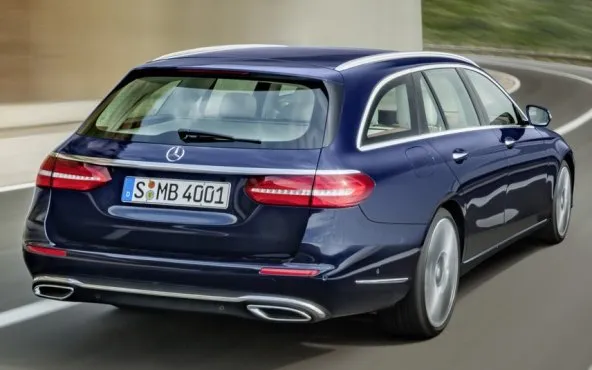
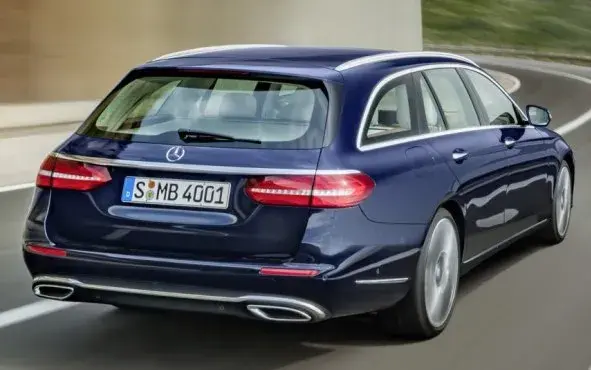
246

diff --git a/pic/ja_mb_img_e.html b/pic/ja_mb_img_e.html
@@ -886,10 +886,10 @@
 					<section>
 						<h4 class="displayNone">T モデル</h4>
 						<a href="full/e/s213_f.jpg"><img loading="lazy" src="style/e/s213_f.webp" alt="メルセデス,S213,Eクラス,フロント" width="614" height="370"></a>
-						<a href="full/e/s213_r.jpg"><img loading="lazy" src="style/e/s213_r.webp" alt="メルセデス,S213,Eクラス,リヤ" width="592" height="370"></a>
+						<a href="full/e/s213_r.jpg"><img loading="lazy" src="style/e/s213_r.webp" alt="メルセデス,S213,Eクラス,リヤ" width="591" height="370"></a>
 						<h5>アヴァンギャルド</h5>
 						<a href="full/e/s213_f_ava.jpg"><img loading="lazy" src="style/e/s213_f_ava.webp" alt="メルセデス,S213,Eクラス,アヴァンギャルド,フロント" width="671" height="368"></a>
-						<a href="full/e/s213_r_ava.jpg"><img loading="lazy" src="style/e/s213_r_ava.webp" alt="メルセデス,S213,Eクラス,アヴァンギャルド,リヤ" width="536" height="368"></a>
+						<a href="full/e/s213_r_ava.jpg"><img loading="lazy" src="style/e/s213_r_ava.webp" alt="メルセデス,S213,Eクラス,アヴァンギャルド,リヤ" width="534" height="368"></a>
 						<h5>Interior and Luggage room</h5>
 						<a href="full/e/s213_i.jpg"><img loading="lazy" src="style/e/s213_i.webp" alt="メルセデス,S213,Eクラス,内装" width="400" height="365"></a>
 						<a href="full/e/s213_i2.jpg"><img loading="lazy" src="style/e/s213_i2.webp" alt="メルセデス,S213,Eクラス,内装" width="400" height="365"></a>

diff --git a/pic/mb_img_e.html b/pic/mb_img_e.html
@@ -886,10 +886,10 @@
 					<section>
 						<h4 class="displayNone">T-Modell</h4>
 						<a href="full/e/s213_f.jpg"><img loading="lazy" src="style/e/s213_f.webp" alt="Mercedes,S213,E-klasse,Frontansicht" width="614" height="370"></a>
-						<a href="full/e/s213_r.jpg"><img loading="lazy" src="style/e/s213_r.webp" alt="Mercedes,S213,E-klasse,Rückansicht" width="592" height="370"></a>
+						<a href="full/e/s213_r.jpg"><img loading="lazy" src="style/e/s213_r.webp" alt="Mercedes,S213,E-klasse,Rückansicht" width="591" height="370"></a>
 						<h5>Avantgarde</h5>
 						<a href="full/e/s213_f_ava.jpg"><img loading="lazy" src="style/e/s213_f_ava.webp" alt="Mercedes,S213,E-klasse,Avantgarde,Frontansicht" width="671" height="368"></a>
-						<a href="full/e/s213_r_ava.jpg"><img loading="lazy" src="style/e/s213_r_ava.webp" alt="Mercedes,S213,E-klasse,Avantgarde,Rückansicht" width="536" height="368"></a>
+						<a href="full/e/s213_r_ava.jpg"><img loading="lazy" src="style/e/s213_r_ava.webp" alt="Mercedes,S213,E-klasse,Avantgarde,Rückansicht" width="534" height="368"></a>
 						<h5>Innen- und Gepäckraum</h5>
 						<a href="full/e/s213_i.jpg"><img loading="lazy" src="style/e/s213_i.webp" alt="Mercedes,S213,E,Innenansicht" width="400" height="365"></a>
 						<a href="full/e/s213_i2.jpg"><img loading="lazy" src="style/e/s213_i2.webp" alt="Mercedes,S213,E,Innenansicht" width="400" height="365"></a>

diff --git a/pic/en_mb_img_e.html b/pic/en_mb_img_e.html
@@ -886,10 +886,10 @@
 					<section>
 						<h4 class="displayNone">T-Model</h4>
 						<a href="full/e/s213_f.jpg"><img loading="lazy" src="style/e/s213_f.webp" alt="Mercedes,S213,E-class,Front view" width="614" height="370"></a>
-						<a href="full/e/s213_r.jpg"><img loading="lazy" src="style/e/s213_r.webp" alt="Mercedes,S213,E-class,Rear view" width="592" height="370"></a>
+						<a href="full/e/s213_r.jpg"><img loading="lazy" src="style/e/s213_r.webp" alt="Mercedes,S213,E-class,Rear view" width="591" height="370"></a>
 						<h5>Avantgarde</h5>
 						<a href="full/e/s213_f_ava.jpg"><img loading="lazy" src="style/e/s213_f_ava.webp" alt="Mercedes,S213,E-class,Avantgarde,Front view" width="671" height="368"></a>
-						<a href="full/e/s213_r_ava.jpg"><img loading="lazy" src="style/e/s213_r_ava.webp" alt="Mercedes,S213,E-class,Avantgarde,Rear view" width="536" height="368"></a>
+						<a href="full/e/s213_r_ava.jpg"><img loading="lazy" src="style/e/s213_r_ava.webp" alt="Mercedes,S213,E-class,Avantgarde,Rear view" width="534" height="368"></a>
 						<h5>Interior and Luggage room</h5>
 						<a href="full/e/s213_i.jpg"><img loading="lazy" src="style/e/s213_i.webp" alt="Mercedes,S213,E,Interior" width="400" height="365"></a>
 						<a href="full/e/s213_i2.jpg"><img loading="lazy" src="style/e/s213_i2.webp" alt="Mercedes,S213,E,Interior" width="400" height="365"></a>
